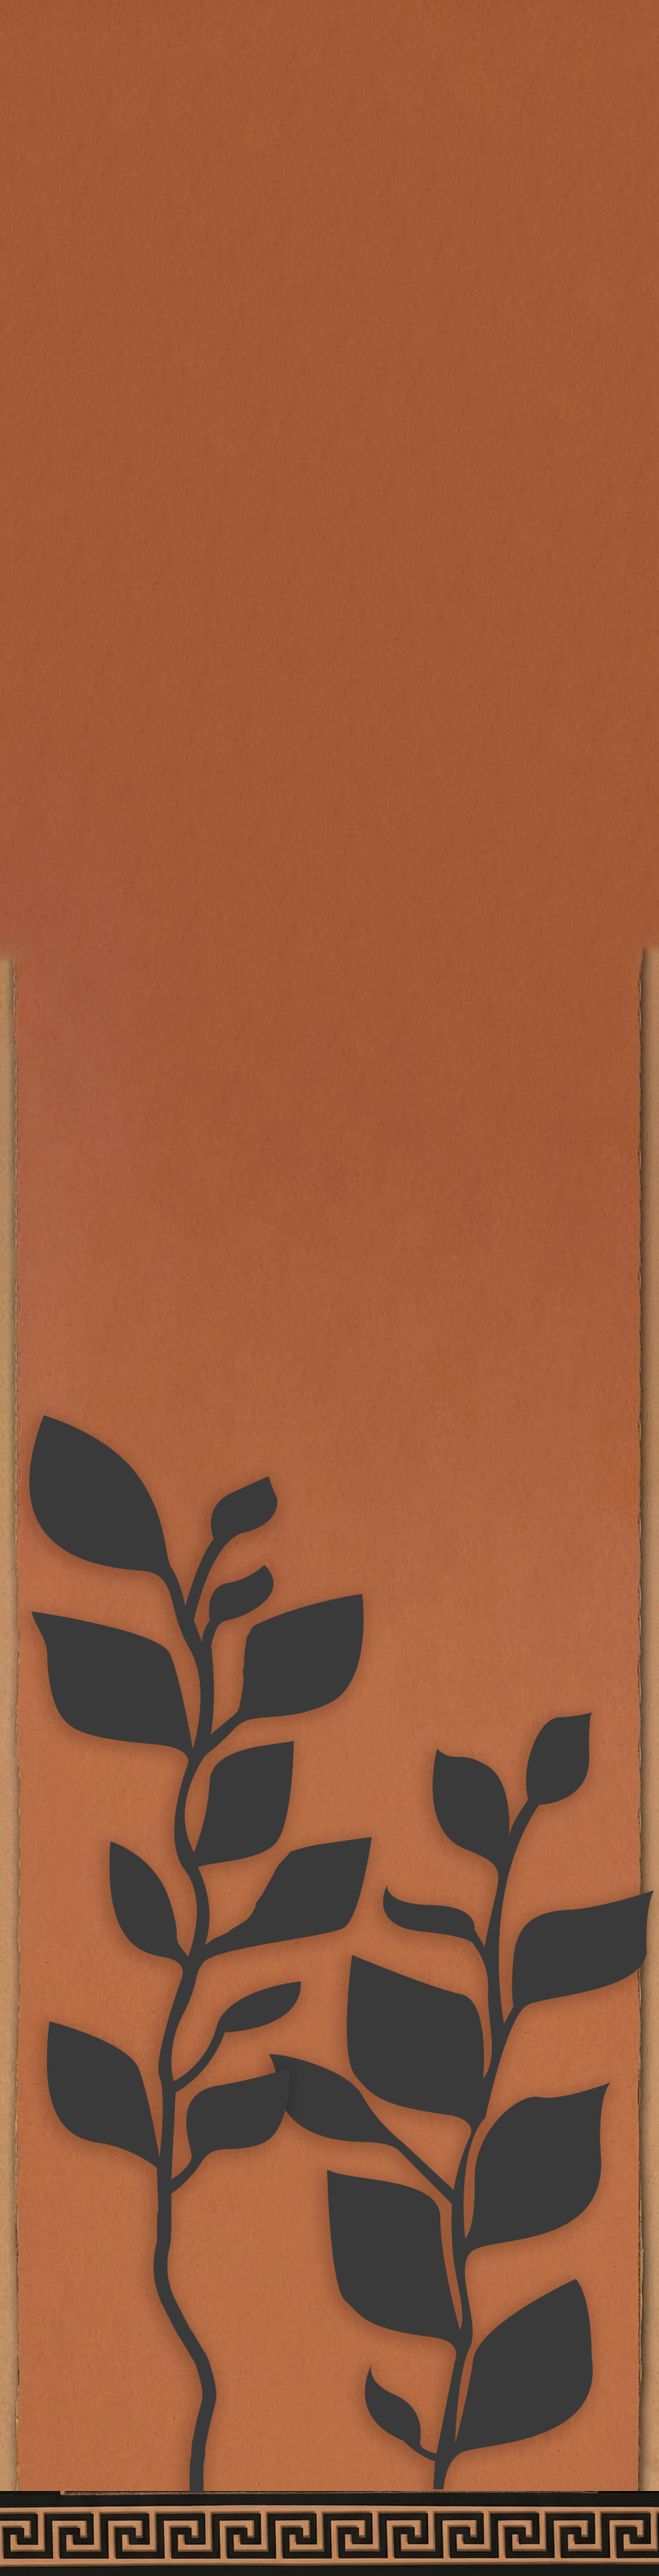
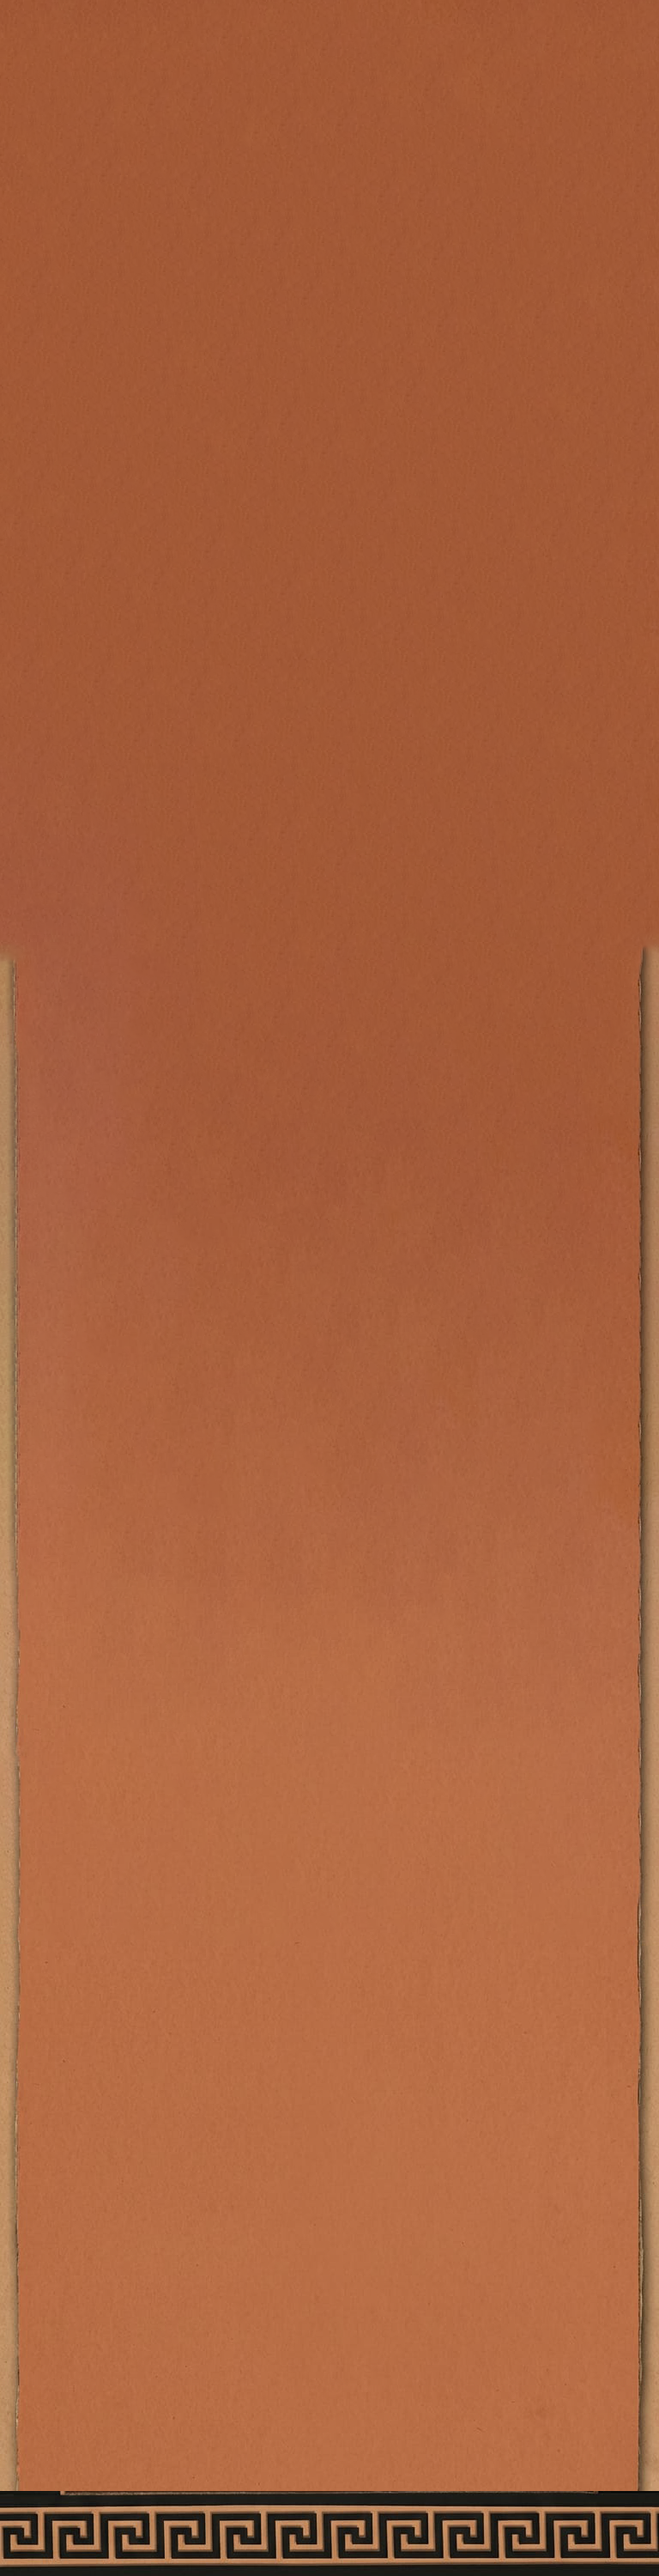
Garden: keep leaf layers visible on every phone

Changed region(s): [[0.0312, 0.527, 1.0, 0.992]]

diff --git a/src/components/SecretGarden.jsx b/src/components/SecretGarden.jsx
@@ -1,17 +1,18 @@
 import { useCallback, useEffect, useRef, useState } from 'react';
 import bgGame from '../assets/bg-game.png';
+import blackLeaves from '../assets/black-unmovable-leaves.png';
 import bottomBar from '../assets/bottom-bar.png';
 import top1 from '../assets/top1-trans.png';
 import top2 from '../assets/top2-trans.png';
 
 // Le Jardin Secret — hidden behind the team card on the home screen.
 //
-// Everything is laid out inside a "canvas" that is exactly the background
-// image's rendered box (cover-fitted to the screen). Positions and sizes are
-// then percentages of that box, so the sprites keep their exact relationship
-// to the painting on every phone.
-const ART_W = 768;
-const ART_H = 1376;
+// The black silhouettes and movable leaves share this coordinate system. It
+// is fitted by width and bottom-aligned, independently of the taller backdrop,
+// so every leaf stays visible on every phone without creating side borders.
+const ART_W = 779;
+const ART_H = 1306;
+const ART_SCREEN_WIDTH = 0.94;
 
 // The sprites are shown at exactly 18.5% of their native pixel size, expressed
 // as a share of the artwork's width so the ratio survives any screen size.
@@ -35,17 +36,17 @@ export default function SecretGarden({ onClose }) {
   const [moved, setMoved] = useState(false);
   const dragRef = useRef(null);
 
-  // Cover-fit the logical artwork box to the screen, then measure it so
-  // children keep the original game scale on every phone.
+  // Give the leaf layer a small, consistent side gutter and anchor it to the
+  // bottom. The extra-tall background fills everything above it separately.
   const measure = useCallback(() => {
     const el = wrapRef.current;
     if (!el) return;
     const { width, height } = el.getBoundingClientRect();
     if (!width || !height) return;
-    const scale = Math.max(width / ART_W, height / ART_H);
+    const scale = (width * ART_SCREEN_WIDTH) / ART_W;
     const w = ART_W * scale;
     const h = ART_H * scale;
-    setCanvas({ w, h, left: (width - w) / 2, top: (height - h) / 2 });
+    setCanvas({ w, h, left: (width - w) / 2, top: height - h });
   }, []);
 
   useEffect(() => {
@@ -73,9 +74,12 @@ export default function SecretGarden({ onClose }) {
       const dy = ((point.clientY - drag.startY) / canvas.h) * 100;
       setPos((prev) => ({
         ...prev,
-        // Keep a sliver on screen so a sprite can never be lost off-canvas.
+        // Keep each movable leaf completely inside the horizontal safe layer.
         [drag.id]: {
-          x: Math.min(95, Math.max(-45, drag.origin.x + dx)),
+          x: Math.min(
+            100 - spriteWidthPct(SPRITES.find((sprite) => sprite.id === drag.id).nativeW),
+            Math.max(0, drag.origin.x + dx)
+          ),
           y: Math.min(98, Math.max(-45, drag.origin.y + dy)),
         },
       }));
@@ -100,12 +104,14 @@ export default function SecretGarden({ onClose }) {
 
   return (
     <div className="garden-overlay" ref={wrapRef}>
+      <img alt="" className="garden-bg" src={bgGame} />
+
       <div
         className="garden-canvas"
         ref={canvasRef}
         style={{ width: canvas.w, height: canvas.h, left: canvas.left, top: canvas.top }}
       >
-        <img alt="" className="garden-bg" src={bgGame} />
+        <img alt="" className="garden-black-leaves" src={blackLeaves} />
 
         {SPRITES.map((sprite) => (
         /* eslint-disable-next-line jsx-a11y/no-noninteractive-element-interactions */
@@ -125,9 +131,10 @@ export default function SecretGarden({ onClose }) {
           />
         ))}
 
-        {/* Painted bar sits above everything, so the sprites emerge from under it */}
-        <img alt="" className="garden-bar" src={bottomBar} />
       </div>
+
+      {/* Painted bar sits above everything, so the sprites emerge from under it */}
+      <img alt="" className="garden-bar" src={bottomBar} />
 
       <button className="garden-close" onClick={onClose} type="button">
         ✕

diff --git a/src/styles.css b/src/styles.css
@@ -3170,6 +3170,7 @@ select:focus {
 .garden-canvas { position: absolute; }
 
 .garden-bg,
+.garden-black-leaves,
 .garden-bar {
   left: 0;
   pointer-events: none;
@@ -3183,10 +3184,17 @@ select:focus {
   height: auto;
   z-index: 1;
 }
+
+.garden-black-leaves {
+  height: 100%;
+  top: 0;
+  z-index: 1;
+}
+
 /* Painted bar rides above the sprites, so they emerge from under it */
 .garden-bar {
   bottom: 0;
-  height: 100%;
+  height: auto;
   z-index: 3;
 }
 
